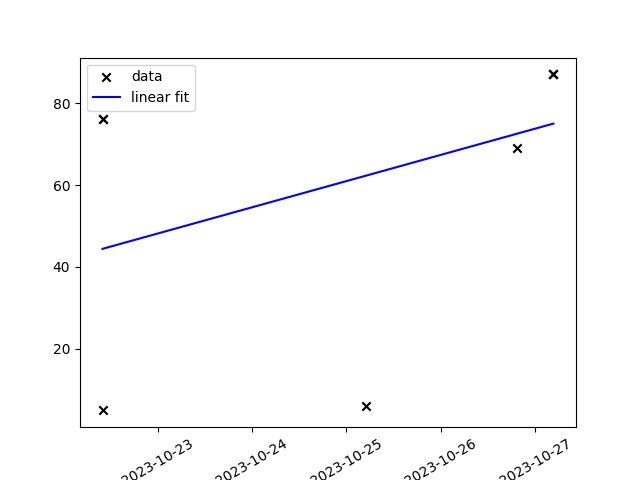
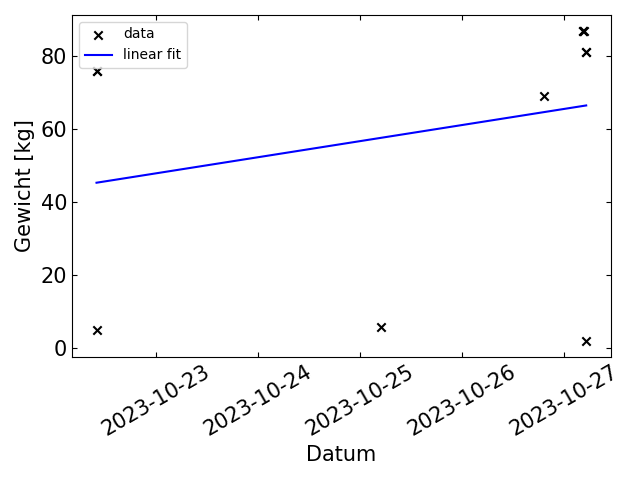
user model weekly_change added.

diff --git a/app/templates/home.html b/app/templates/home.html
@@ -3,4 +3,5 @@
 {% block content %}
     <h1>Das ist deine eigene Seite, {{ current_user.username }}!</h1>
     <img src="{{test_image}}" alt="my test image">    
+    <h1>{{ current_user.username }} dein Gewicht ändert sich um {{current_user.weekly_change}} kg pro Woche.</h1>
 {% endblock %}

diff --git a/migrations/versions/f0d33244531c_weekly_change_added.py b/migrations/versions/f0d33244531c_weekly_change_added.py
@@ -1,0 +1,46 @@
+"""weekly change added
+
+Revision ID: f0d33244531c
+Revises: f9d319783444
+Create Date: 2023-10-27 06:58:26.587985
+
+"""
+from alembic import op
+import sqlalchemy as sa
+
+
+# revision identifiers, used by Alembic.
+revision = 'f0d33244531c'
+down_revision = 'f9d319783444'
+branch_labels = None
+depends_on = None
+
+
+def upgrade():
+    # ### commands auto generated by Alembic - please adjust! ###
+    with op.batch_alter_table('datapoint', schema=None) as batch_op:
+        batch_op.alter_column('weight',
+               existing_type=sa.INTEGER(),
+               type_=sa.Float(),
+               existing_nullable=True)
+
+    with op.batch_alter_table('user', schema=None) as batch_op:
+        batch_op.add_column(sa.Column('weekly_change', sa.String(), nullable=True))
+        batch_op.create_index(batch_op.f('ix_user_weekly_change'), ['weekly_change'], unique=True)
+
+    # ### end Alembic commands ###
+
+
+def downgrade():
+    # ### commands auto generated by Alembic - please adjust! ###
+    with op.batch_alter_table('user', schema=None) as batch_op:
+        batch_op.drop_index(batch_op.f('ix_user_weekly_change'))
+        batch_op.drop_column('weekly_change')
+
+    with op.batch_alter_table('datapoint', schema=None) as batch_op:
+        batch_op.alter_column('weight',
+               existing_type=sa.Float(),
+               type_=sa.INTEGER(),
+               existing_nullable=True)
+
+    # ### end Alembic commands ###

diff --git a/app/plotandfit.py b/app/plotandfit.py
@@ -4,7 +4,7 @@ import numpy as np
 from scipy.optimize import curve_fit
 import os
 import datetime
-#from app.pp_font import science_layout, pp_font
+from app.pp_font import science_layout, pp_font
 
 def plot_data(x, y, fig, ax):
     "Plot x and y data in a nice format"
@@ -31,7 +31,7 @@ def linear(x, a, b):
 
 def save(fig, savepath):
     "Check if save path exist, if not create it, and finally save the fig there."
-    n=savepath[::-1].find('\\') # find last occurence of '\'
+    n=savepath[::-1].find('\\')  # find last occurence of '\'
     savefolder = savepath[:len(savepath)-n]
     if not os.path.exists(savefolder):
         os.mkdir(savefolder)
@@ -41,12 +41,13 @@ def save(fig, savepath):
 def plot_and_fit(x, y, savepath):
     fig, ax = plt.subplots()
     plot_data(x, y, fig, ax)
-    linear_fit(x=mdates.date2num(x), y=y, fig=fig, ax=ax)
+    popt, pcov = linear_fit(x=mdates.date2num(x), y=y, fig=fig, ax=ax)
     ax.legend()
     make_date_label(fig, ax)
-    #science_layout(ax)
-    #pp_font(x_label='Datum', y_label='Gewicht [kg]')
+    science_layout(ax)
+    pp_font(ax, x_label='Datum', y_label='Gewicht [kg]')
     save(fig=fig, savepath=savepath)
+    return round(popt[0]*7, 3)
 
 
 def test():

diff --git a/app/routes.py b/app/routes.py
@@ -20,7 +20,10 @@ def index():
         db.session.commit()
         flash('datapoint added!')
         x, y = transform_datapoints(datapoints=current_user.datapoints.all(), field="weight")
-        plot_and_fit(x=x, y=y, savepath=r"C:\Users\Benja\Code\Python\Webside - Fitness\app\static\images\\" + str(current_user.id)+".png")
+        weekly_change = plot_and_fit(x=x, y=y,
+                                     savepath=r"C:\Users\Benja\Code\Python\Webside - Fitness\app\static\images\\" + str(current_user.id)+".png")
+        current_user.weekly_change = weekly_change
+        db.session.commit()
     return render_template('index.html', title='Home', form=form)
 
 @app.route('/login', methods=['GET', 'POST'])

diff --git a/app/testfunctions.py b/app/testfunctions.py
@@ -2,6 +2,8 @@ import matplotlib.pyplot as plt
 import random
 import time
 
+import matplotlib.dates as mdates
+import datetime
 
 def make_random_image(savepath):
     """
@@ -16,3 +18,7 @@ def make_random_image(savepath):
     fig.savefig(savepath)
 
 # make_random_image(r"C:\Users\Benja\Code\Python\Webside - Fitness\app\static\images\test.png")
+
+x = [datetime.datetime(2023, 10, 22), datetime.datetime(2023, 10, 23)]
+
+print([mdates.date2num(_) for _ in x])

diff --git a/app/models.py b/app/models.py
@@ -10,6 +10,7 @@ class User(UserMixin, db.Model):
     password_hash = db.Column(db.String(128))
     # hier dann die liste an toubles einfügen
     datapoints = db.relationship('Datapoint', backref='person', lazy='dynamic')
+    weekly_change = db.Column(db.String, index=True, unique=True, default='None')
 
     def __repr__(self):
         return '<User {}>'.format(self.username)
